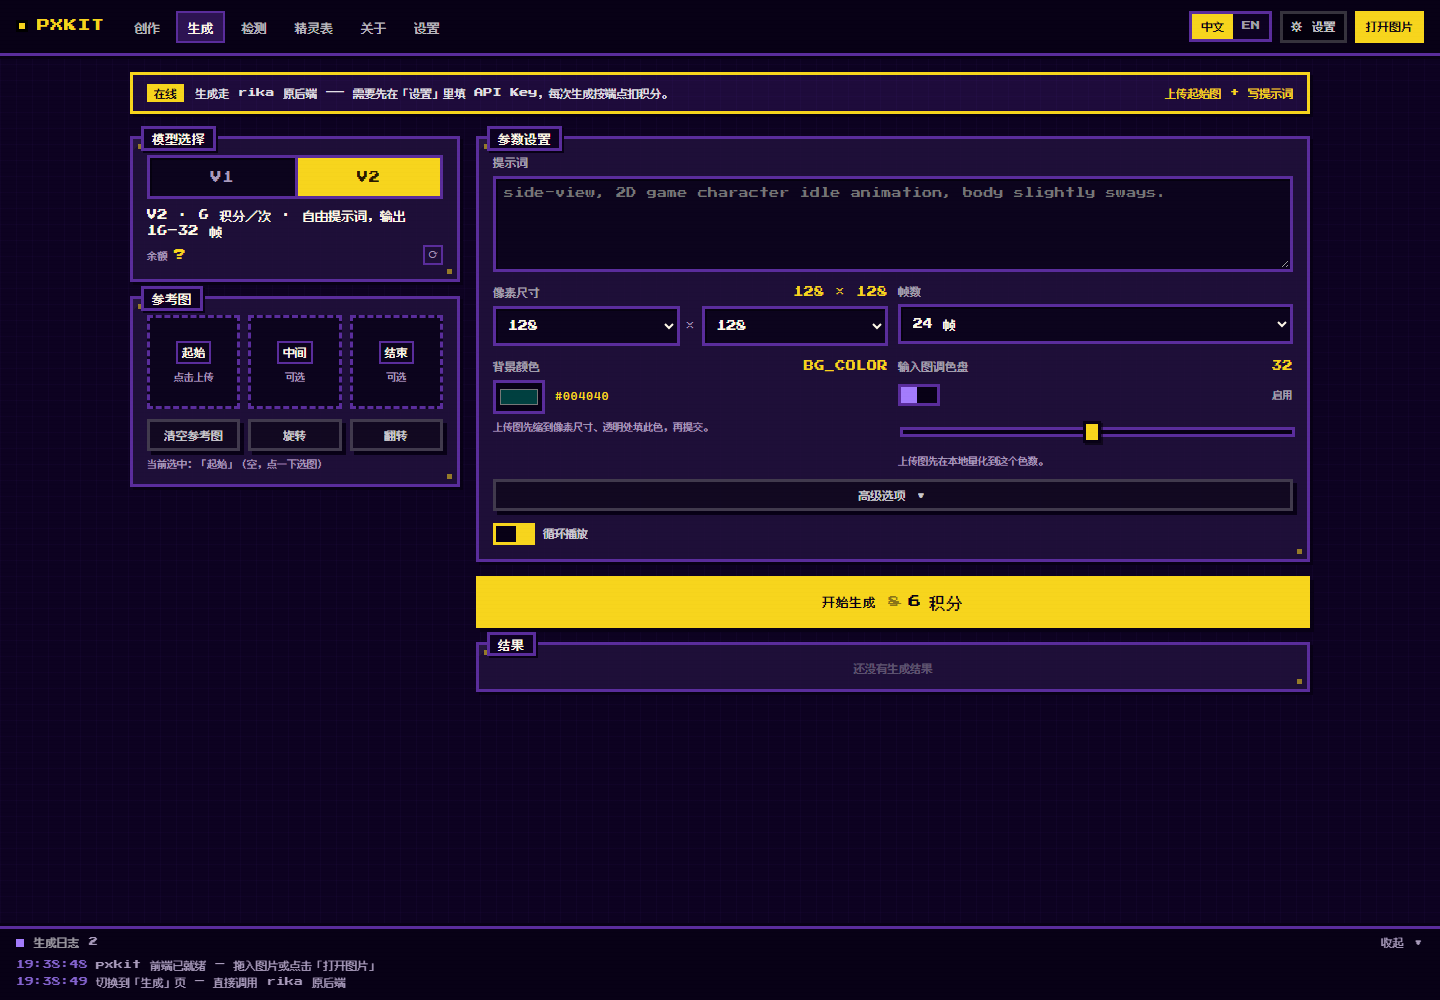
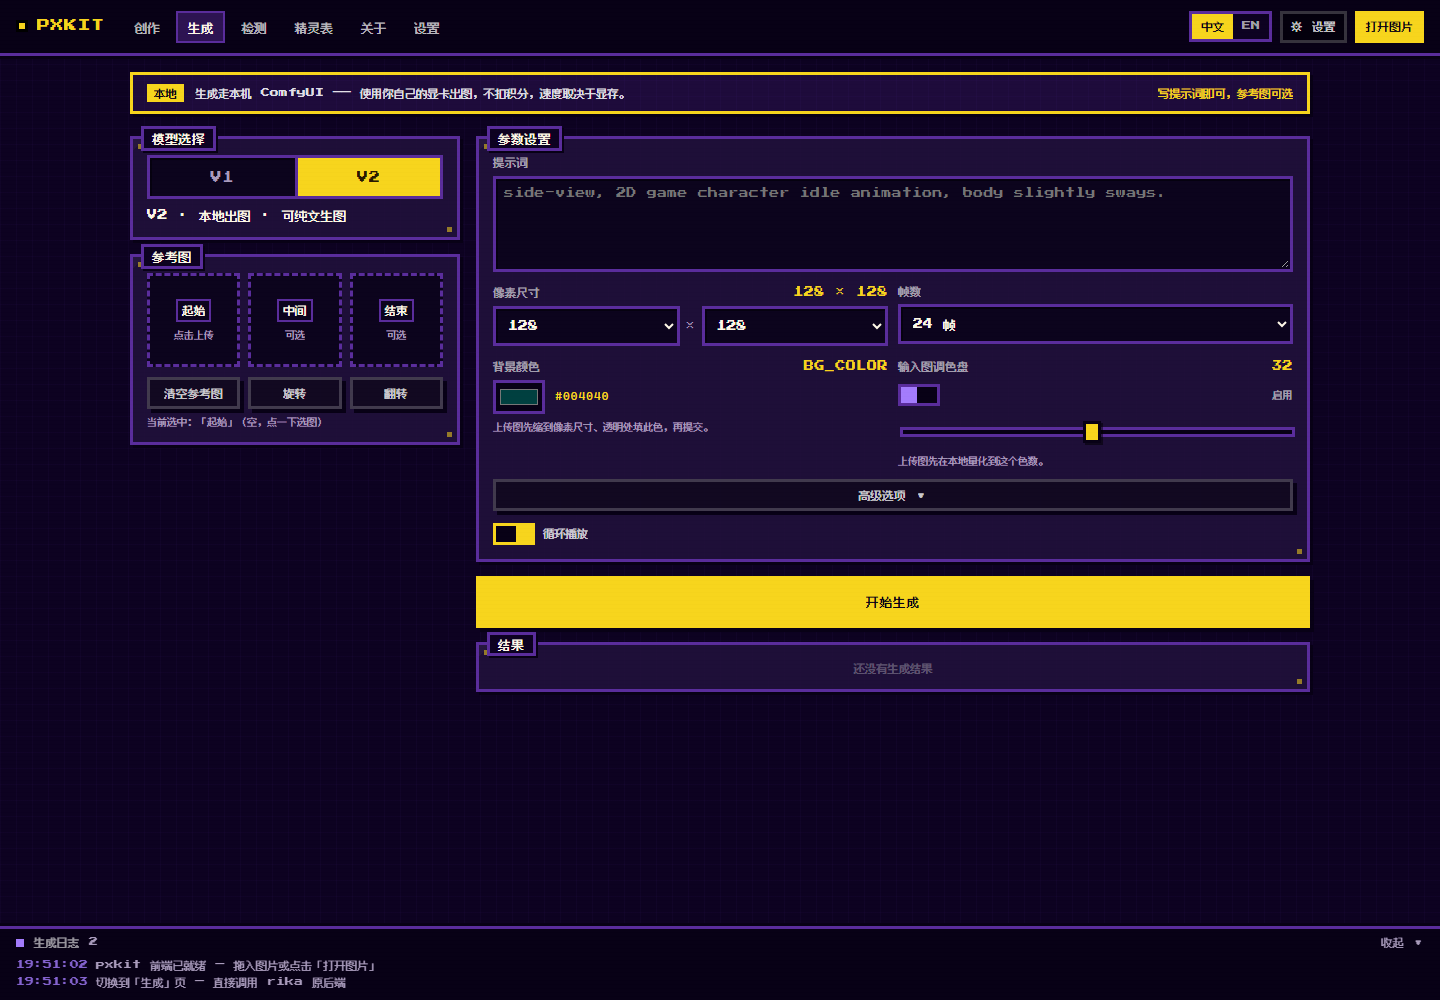
test(pxweb): 自检脚本自带后端前置，互不依赖运行顺序

diff --git a/pxweb/verify_gen.probe.js b/pxweb/verify_gen.probe.js
@@ -10,6 +10,19 @@
   };
   const logN = () => document.querySelectorAll("#logBody .ln").length;
 
+  // 前置：这份断言写的是 rika 云端契约（有积分、要参考图）。
+  // 当前后端若是本地 ComfyUI，先切回 rika，否则价格/参考图断言必然假失败。
+  const K0 = window.__genTest;
+  if (K0 && K0.isFree && K0.isFree()) {
+    await fetch("/api/config", {
+      method: "POST",
+      headers: { "Content-Type": "application/json" },
+      body: JSON.stringify({ backend: "rika" }),
+    });
+    await K0.loadCaps();
+    await wait(400);
+  }
+
   // 切到生成页
   const navGen = document.querySelector('[data-nav="gen"]');
   if (navGen) navGen.click();
